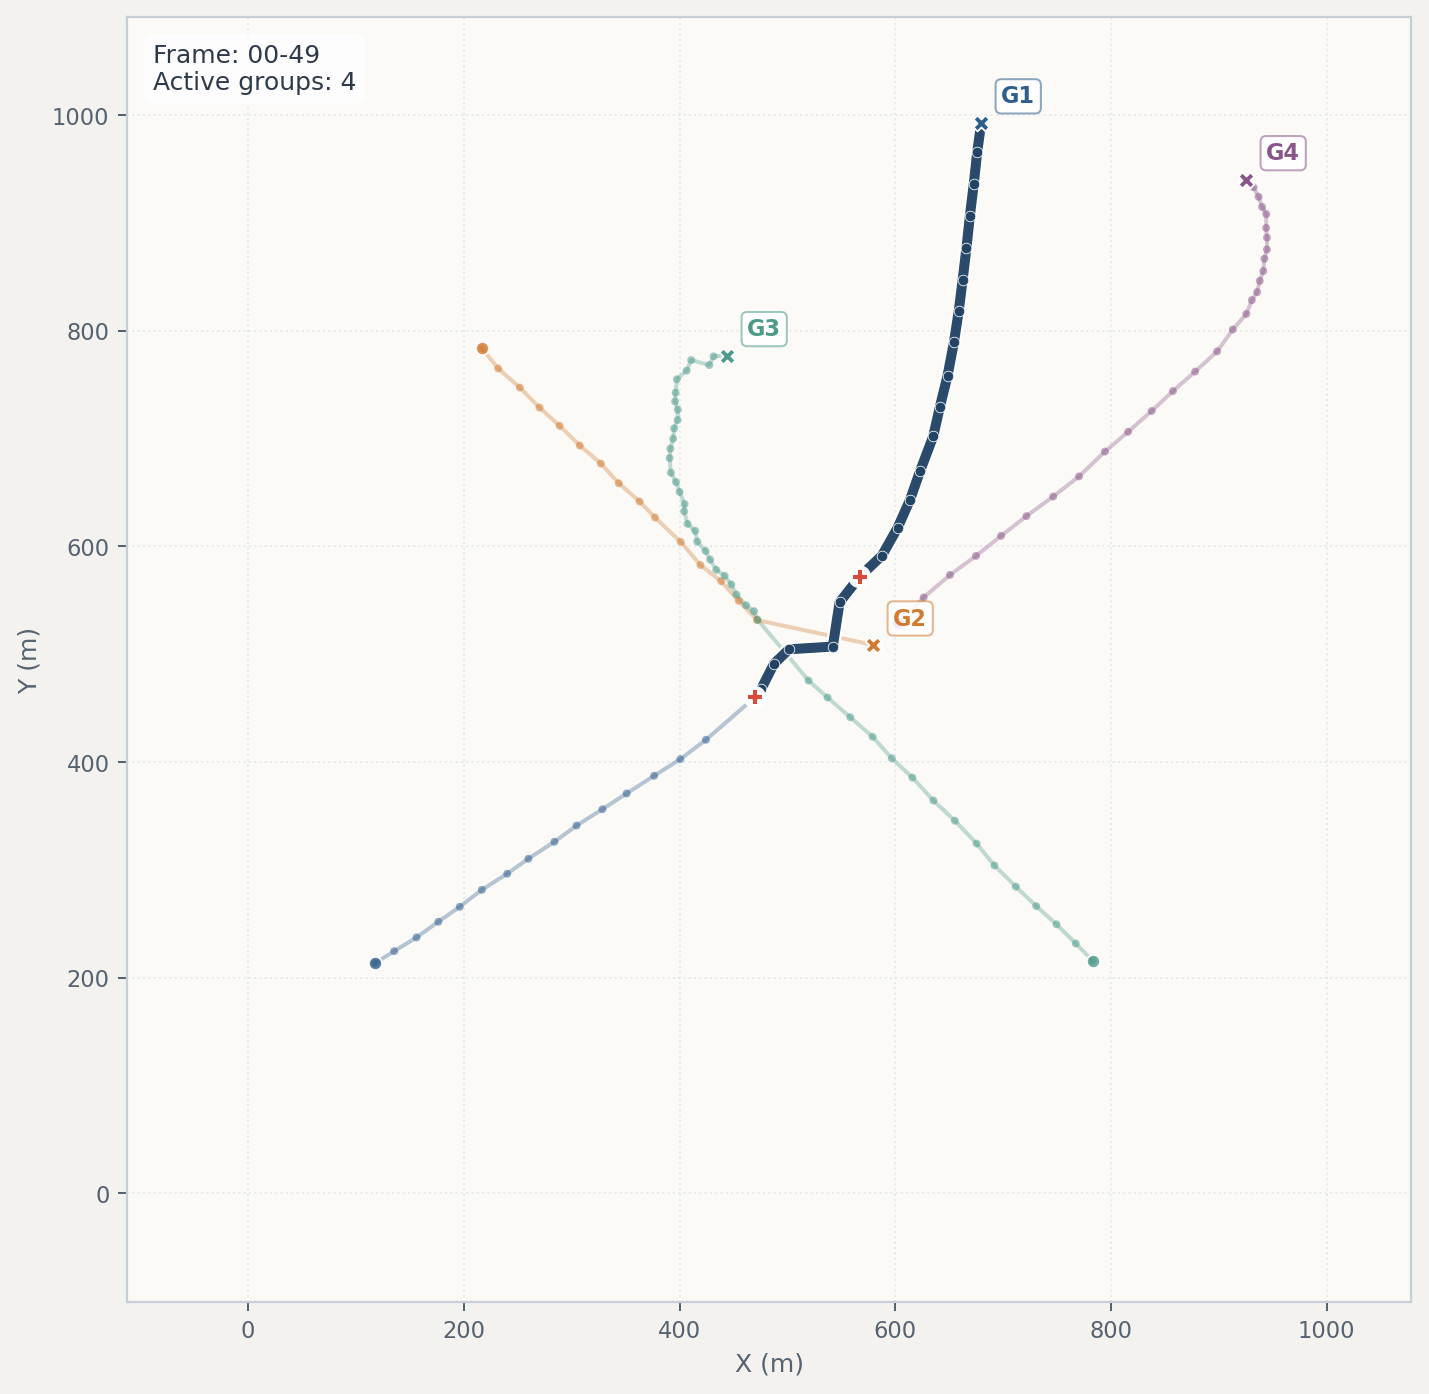
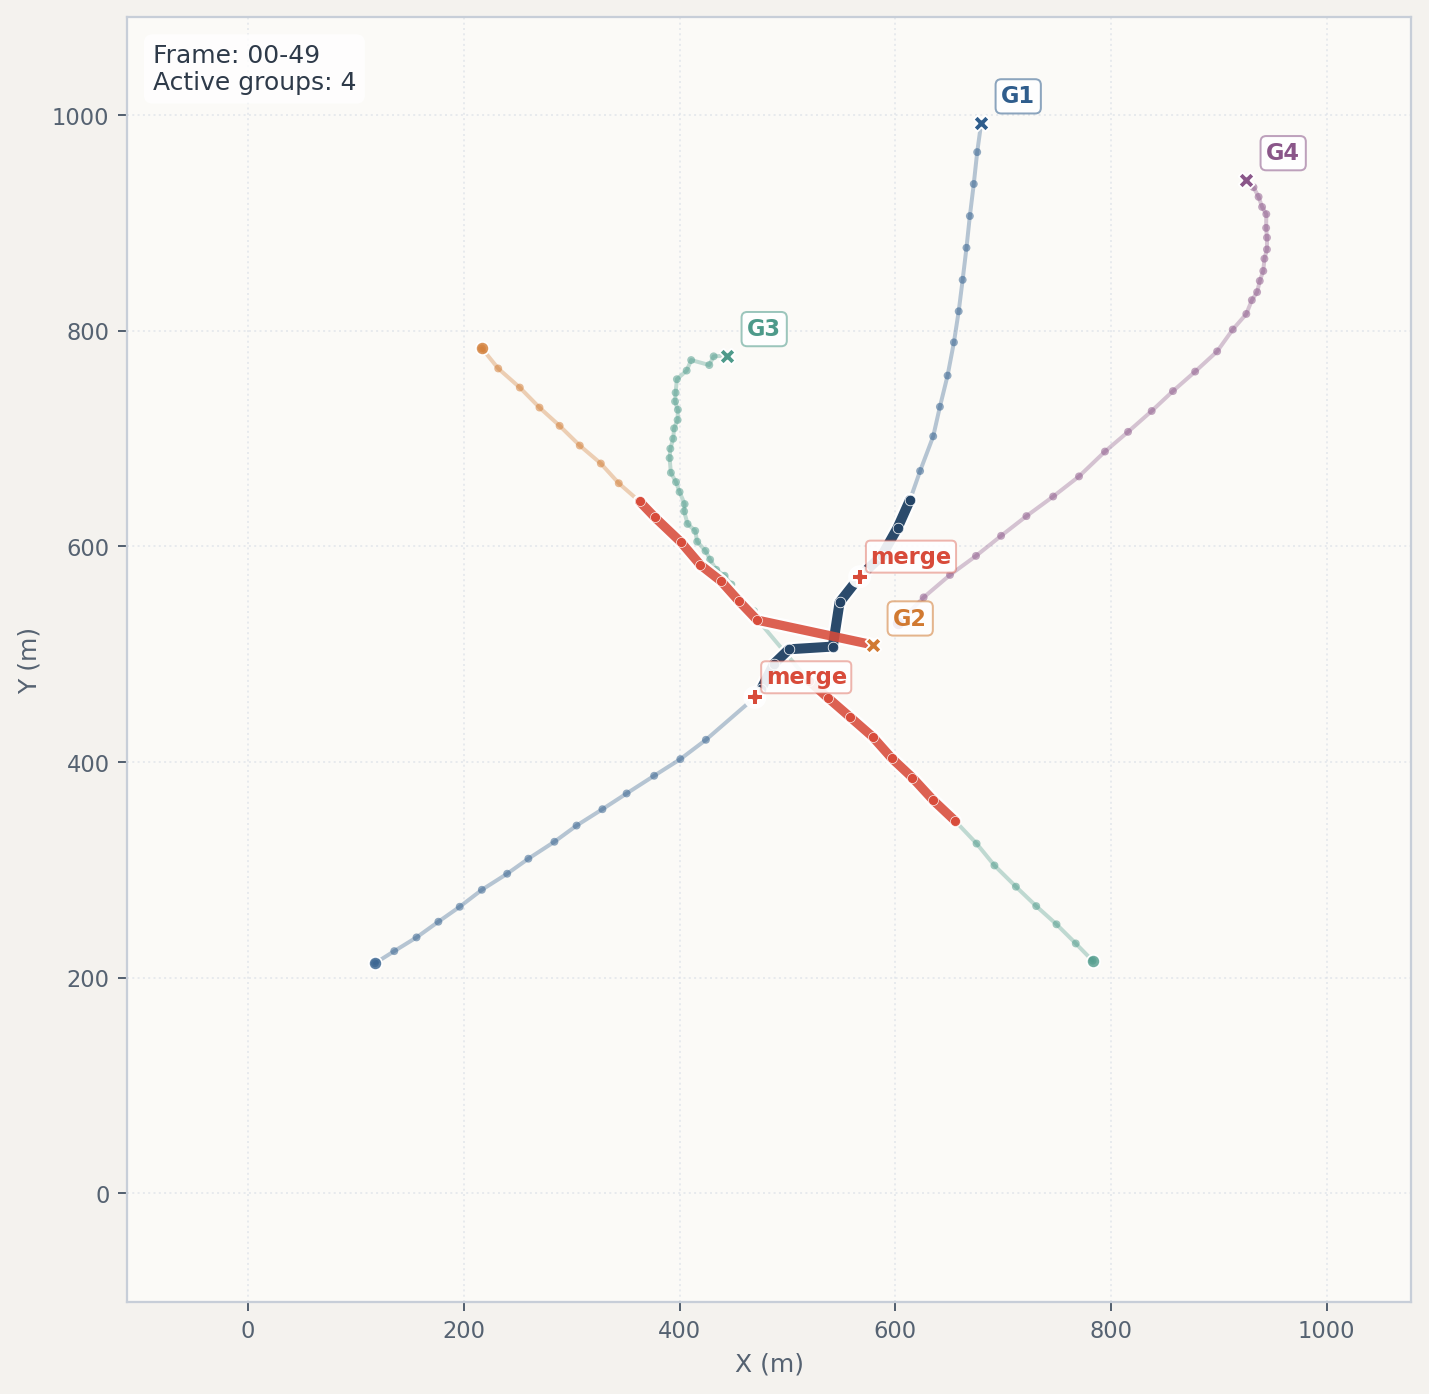
2.11.11

diff --git a/sim_env/track_gif_gen.py b/sim_env/track_gif_gen.py
@@ -70,12 +70,10 @@ VIZ_STYLE = {
     'merge_arrow_outline_width': 5.0,
     'merge_detect_thresh': 72.0,
     'merge_arrow_color': '#D84B3A',
-    'merge_highlight_width': 4.0,
-    'merge_highlight_alpha': 0.96,
-    'merge_highlight_factor': 0.72,
-    'merge_source_tail_points': 8,
-    'merge_child_head_points': 10,
-    'merge_snap_thresh': 20.0,
+    'continuous_width': 3.2,
+    'continuous_alpha': 0.92,
+    'continuous_point_size': 16,
+    'continuous_lighten_factor': 0.72,
     'centroid_outer_size': 132,
     'centroid_inner_size': 58,
     'label_fontsize': 9,
@@ -194,6 +192,22 @@ def compute_display_tracks(gnn_processor, lineage_meta, bridge_events):
             display_tracks[child_id].setdefault('bridges', []).append(event)
 
     return display_tracks
+
+
+def compute_raw_tracks(gnn_processor, lineage_meta):
+    raw_tracks = {}
+    for track_id, trk in gnn_processor.tracks.items():
+        root_id = lineage_meta.get(track_id, {}).get('root_id', track_id)
+        generation = lineage_meta.get(track_id, {}).get('generation', 0)
+        base_color = get_track_color(root_id)
+        color_factor = 1.0 + min(generation, 3) * 0.08
+        raw_tracks[track_id] = {
+            'trace': np.asarray(trk.get('trace', []), dtype=float),
+            'color': adjust_color(base_color, color_factor),
+            'root_id': root_id,
+            'age': int(trk.get('age', 0)),
+        }
+    return raw_tracks
 
 
 def update_recent_history(recent_history, display_tracks, frame_idx):
@@ -464,20 +478,11 @@ def draw_bridge(ax, bridge, color, frame_idx):
     )
 
 
-def collect_overview_tracks(viz_frames):
+def collect_overview_tracks(viz_frames, field_name):
     overview_tracks = {}
-    overview_bridges = {}
-    persistent_merges = {}
 
-    prev_centers = {}
-    prev_ids = set()
-    prev_frame_idx = None
-
-    for frame_idx, data in enumerate(viz_frames):
-        current_centers = {int(tid): np.asarray(center, dtype=float) for tid, center in data.get('centers', {}).items()}
-        current_ids = set(current_centers.keys())
-
-        for track_id, track_info in data.get('display_tracks', {}).items():
+    for data in viz_frames:
+        for track_id, track_info in data.get(field_name, {}).items():
             trace = np.asarray(track_info.get('trace', []), dtype=float)
             if not trace.size:
                 continue
@@ -486,62 +491,16 @@ def collect_overview_tracks(viz_frames):
                 overview_tracks[track_id] = {
                     'trace': trace.copy(),
                     'color': track_info['color'],
-                    'root_id': track_info['root_id'],
+                    'root_id': track_info.get('root_id', track_id),
                 }
 
-            for bridge in track_info.get('bridges', []):
-                key = (
-                    bridge['start_frame'],
-                    tuple(np.round(bridge['start'], 4)),
-                    tuple(np.round(bridge['end'], 4)),
-                    bridge['type'],
-                )
-                overview_bridges[key] = {
-                    'start': np.asarray(bridge['start'], dtype=float),
-                    'end': np.asarray(bridge['end'], dtype=float),
-                    'type': bridge['type'],
-                    'child_id': track_id,
-                    'start_frame': bridge['start_frame'],
-                }
-
-        if prev_frame_idx is not None:
-            vanished_ids = prev_ids - current_ids
-            survived_ids = prev_ids & current_ids
-            for vanished_id in vanished_ids:
-                vanish_center = prev_centers[vanished_id]
-                candidates = []
-                for survive_id in survived_ids:
-                    survive_center = current_centers[survive_id]
-                    distance = float(np.linalg.norm(survive_center - vanish_center))
-                    if distance <= VIZ_STYLE['merge_detect_thresh']:
-                        candidates.append((distance, survive_id, survive_center))
-                if candidates:
-                    candidates.sort(key=lambda item: item[0])
-                    _, child_id, child_center = candidates[0]
-                    key = (prev_frame_idx, vanished_id, child_id)
-                    persistent_merges[key] = {
-                        'start': vanish_center.copy(),
-                        'end': child_center.copy(),
-                        'type': 'merge_persistent',
-                        'child_id': child_id,
-                        'start_frame': prev_frame_idx,
-                        'source_id': vanished_id,
-                    }
-
-        prev_centers = current_centers
-        prev_ids = current_ids
-        prev_frame_idx = frame_idx
-
-    overview_bridges.update({
-        ('persistent', item['start_frame'], item['source_id'], item['child_id']): item
-        for item in persistent_merges.values()
-    })
-    return overview_tracks, list(overview_bridges.values())
+    return overview_tracks
 
 
 def save_track_overview(viz_frames, xlim, ylim, labels):
-    overview_tracks, overview_bridges = collect_overview_tracks(viz_frames)
-    if not overview_tracks:
+    raw_overview_tracks = collect_overview_tracks(viz_frames, 'raw_tracks')
+    continuous_overview_tracks = collect_overview_tracks(viz_frames, 'display_tracks')
+    if not raw_overview_tracks and not continuous_overview_tracks:
         return None
 
     fig, ax = plt.subplots(figsize=VIZ_STYLE['figsize'], dpi=VIZ_STYLE['dpi'])
@@ -549,130 +508,59 @@ def save_track_overview(viz_frames, xlim, ylim, labels):
     fig.subplots_adjust(left=0.11, right=0.97, bottom=0.10, top=0.97)
     style_axes(ax)
 
-    merge_endpoints = {}
-    highlighted_segments = {}
-    source_segments = {}
-    for bridge in overview_bridges:
-        if bridge['type'] not in {'merge', 'merge_persistent'}:
-            continue
-        child_track = overview_tracks.get(bridge['child_id'])
-        if child_track is None:
-            continue
-        trace = child_track['trace']
-        distances = np.linalg.norm(trace - np.asarray(bridge['end'], dtype=float), axis=1)
-        merge_idx = int(np.argmin(distances))
-        key = tuple(np.round(bridge['end'], 4))
-        merge_endpoints.setdefault(key, {
-            'point': np.asarray(bridge['end'], dtype=float),
-            'child_ids': set(),
-        })
-        merge_endpoints[key]['child_ids'].add(bridge['child_id'])
-        current_idx = highlighted_segments.get(bridge['child_id'])
-        if current_idx is None or merge_idx < current_idx:
-            highlighted_segments[bridge['child_id']] = merge_idx
-
-        start_point = np.asarray(bridge['start'], dtype=float)
-        best_source_id = None
-        best_source_idx = None
-        best_source_dist = None
-        for source_id, source_track in overview_tracks.items():
-            source_trace = source_track['trace']
-            source_distances = np.linalg.norm(source_trace - start_point, axis=1)
-            source_idx = int(np.argmin(source_distances))
-            source_dist = float(source_distances[source_idx])
-            if source_dist <= VIZ_STYLE['merge_snap_thresh']:
-                if best_source_dist is None or source_dist < best_source_dist:
-                    best_source_id = source_id
-                    best_source_idx = source_idx
-                    best_source_dist = source_dist
-        if best_source_id is not None:
-            existing = source_segments.get(best_source_id)
-            if existing is None or best_source_idx > existing:
-                source_segments[best_source_id] = best_source_idx
-
-    for track_id in sorted(overview_tracks):
-        track_info = overview_tracks[track_id]
+    for track_id in sorted(raw_overview_tracks):
+        track_info = raw_overview_tracks[track_id]
         trace = track_info['trace']
         color = track_info['color']
         ax.plot(
             trace[:, 0], trace[:, 1],
-            color=mcolors.to_rgba(color, 0.34),
-            linewidth=1.6,
+            color=mcolors.to_rgba(color, 0.26),
+            linewidth=1.25,
             solid_capstyle='round',
-            zorder=2,
+            zorder=1,
         )
         ax.scatter(
             trace[:, 0], trace[:, 1],
-            color=mcolors.to_rgba(color, 0.52),
-            s=10,
+            color=mcolors.to_rgba(color, 0.34),
+            s=9,
             edgecolors='none',
-            zorder=3,
+            zorder=2,
         )
 
-        if track_id in source_segments:
-            source_end_idx = source_segments[track_id]
-            source_start_idx = max(0, source_end_idx - VIZ_STYLE['merge_source_tail_points'] + 1)
-            source_trace = trace[source_start_idx:source_end_idx + 1]
-            if len(source_trace) >= 2:
-                ax.plot(
-                    source_trace[:, 0], source_trace[:, 1],
-                    color=mcolors.to_rgba('white', 0.98),
-                    linewidth=VIZ_STYLE['merge_highlight_width'] + 1.6,
-                    solid_capstyle='round',
-                    zorder=4,
-                )
-                ax.plot(
-                    source_trace[:, 0], source_trace[:, 1],
-                    color=mcolors.to_rgba(VIZ_STYLE['merge_arrow_color'], 0.88),
-                    linewidth=VIZ_STYLE['merge_highlight_width'] - 0.3,
-                    solid_capstyle='round',
-                    zorder=5,
-                )
-                ax.scatter(
-                    source_trace[:, 0], source_trace[:, 1],
-                    color=mcolors.to_rgba(VIZ_STYLE['merge_arrow_color'], 0.92),
-                    s=16,
-                    edgecolors='white',
-                    linewidths=0.25,
-                    zorder=6,
-                )
-
-        if track_id in highlighted_segments and len(trace) - highlighted_segments[track_id] >= 2:
-            child_start_idx = highlighted_segments[track_id]
-            child_end_idx = min(len(trace), child_start_idx + VIZ_STYLE['merge_child_head_points'])
-            merge_trace = trace[child_start_idx:child_end_idx]
-            highlight_color = adjust_color(color, VIZ_STYLE['merge_highlight_factor'])
-            ax.plot(
-                merge_trace[:, 0], merge_trace[:, 1],
-                color=mcolors.to_rgba('white', 0.98),
-                linewidth=VIZ_STYLE['merge_highlight_width'] + 1.8,
-                solid_capstyle='round',
-                zorder=4,
-            )
-            ax.plot(
-                merge_trace[:, 0], merge_trace[:, 1],
-                color=mcolors.to_rgba(highlight_color, VIZ_STYLE['merge_highlight_alpha']),
-                linewidth=VIZ_STYLE['merge_highlight_width'],
-                solid_capstyle='round',
-                zorder=5,
-            )
-            ax.scatter(
-                merge_trace[:, 0], merge_trace[:, 1],
-                color=mcolors.to_rgba(highlight_color, 0.88),
-                s=18,
-                edgecolors='white',
-                linewidths=0.3,
-                zorder=6,
-            )
-
+    for track_id in sorted(continuous_overview_tracks):
+        track_info = continuous_overview_tracks[track_id]
+        trace = track_info['trace']
+        color = adjust_color(track_info['color'], VIZ_STYLE['continuous_lighten_factor'])
+        ax.plot(
+            trace[:, 0], trace[:, 1],
+            color=mcolors.to_rgba('white', 0.98),
+            linewidth=VIZ_STYLE['continuous_width'] + 1.6,
+            solid_capstyle='round',
+            zorder=3,
+        )
+        ax.plot(
+            trace[:, 0], trace[:, 1],
+            color=mcolors.to_rgba(color, VIZ_STYLE['continuous_alpha']),
+            linewidth=VIZ_STYLE['continuous_width'],
+            solid_capstyle='round',
+            zorder=4,
+        )
+        ax.scatter(
+            trace[:, 0], trace[:, 1],
+            color=mcolors.to_rgba(color, 0.88),
+            s=VIZ_STYLE['continuous_point_size'],
+            edgecolors='white',
+            linewidths=0.25,
+            zorder=5,
+        )
         ax.scatter(
             trace[0, 0], trace[0, 1],
-            color=mcolors.to_rgba(color, 0.78),
+            color=mcolors.to_rgba(color, 0.82),
             s=28,
             marker='o',
             edgecolors='white',
             linewidths=0.7,
-            zorder=7,
+            zorder=6,
         )
         ax.scatter(
             trace[-1, 0], trace[-1, 1],
@@ -681,7 +569,7 @@ def save_track_overview(viz_frames, xlim, ylim, labels):
             marker='X',
             edgecolors='white',
             linewidths=0.7,
-            zorder=8,
+            zorder=7,
         )
         ax.annotate(
             f'G{int(track_id)}',
@@ -699,51 +587,12 @@ def save_track_overview(viz_frames, xlim, ylim, labels):
                 ec=mcolors.to_rgba(color, 0.55),
                 lw=0.8,
             ),
-            zorder=9,
-        )
-
-    for merge_info in merge_endpoints.values():
-        if len(merge_info['child_ids']) < 1:
-            continue
-        point = merge_info['point']
-        ax.scatter(
-            point[0], point[1],
-            s=VIZ_STYLE['merge_marker_outer_size'],
-            color='white',
-            edgecolors='none',
-            alpha=0.94,
-            zorder=9,
-        )
-        ax.scatter(
-            point[0], point[1],
-            s=VIZ_STYLE['merge_marker_inner_size'],
-            color=VIZ_STYLE['merge_arrow_color'],
-            marker='P',
-            edgecolors='white',
-            linewidths=0.8,
-            zorder=10,
-        )
-        ax.text(
-            point[0] + 10,
-            point[1] + 8,
-            'merge',
-            color=VIZ_STYLE['merge_arrow_color'],
-            fontsize=VIZ_STYLE['label_fontsize'],
-            fontweight='semibold',
-            ha='left',
-            va='bottom',
-            bbox=dict(
-                boxstyle='round,pad=0.2',
-                fc=mcolors.to_rgba('white', 0.9),
-                ec=mcolors.to_rgba(VIZ_STYLE['merge_arrow_color'], 0.4),
-                lw=0.8,
-            ),
-            zorder=10,
+            zorder=8,
         )
 
     info_text = (
         f'{labels["frame"]}: 00-{len(viz_frames) - 1:02d}\n'
-        f'{labels["active_groups"]}: {len(overview_tracks)}'
+        f'{labels["active_groups"]}: {len(continuous_overview_tracks) or len(raw_overview_tracks)}'
     )
     ax.text(
         0.02, 0.98, info_text,
@@ -889,11 +738,13 @@ def run_inference_and_viz():
                 'centers': {},
                 'acc': 0.0,
                 'display_tracks': {},
+                'raw_tracks': {},
             }
 
             if num_nodes == 0:
                 gnn_processor.update(np.empty((0, 2)), None)
                 frame_data['display_tracks'] = compute_display_tracks(gnn_processor, lineage_meta, bridge_events)
+                frame_data['raw_tracks'] = compute_raw_tracks(gnn_processor, lineage_meta)
                 update_recent_history(recent_history, frame_data['display_tracks'], t)
                 prev_track_ids = set(frame_data['display_tracks'].keys())
                 viz_frames.append(frame_data)
@@ -943,6 +794,7 @@ def run_inference_and_viz():
             lineage_events = create_lineage_events(new_track_ids, prev_track_ids, frame_data['display_tracks'], recent_history, t)
             apply_lineage_events(lineage_meta, bridge_events, lineage_events)
             frame_data['display_tracks'] = compute_display_tracks(gnn_processor, lineage_meta, bridge_events)
+            frame_data['raw_tracks'] = compute_raw_tracks(gnn_processor, lineage_meta)
 
             seen_track_ids.update(current_track_ids)
             update_recent_history(recent_history, frame_data['display_tracks'], t)
